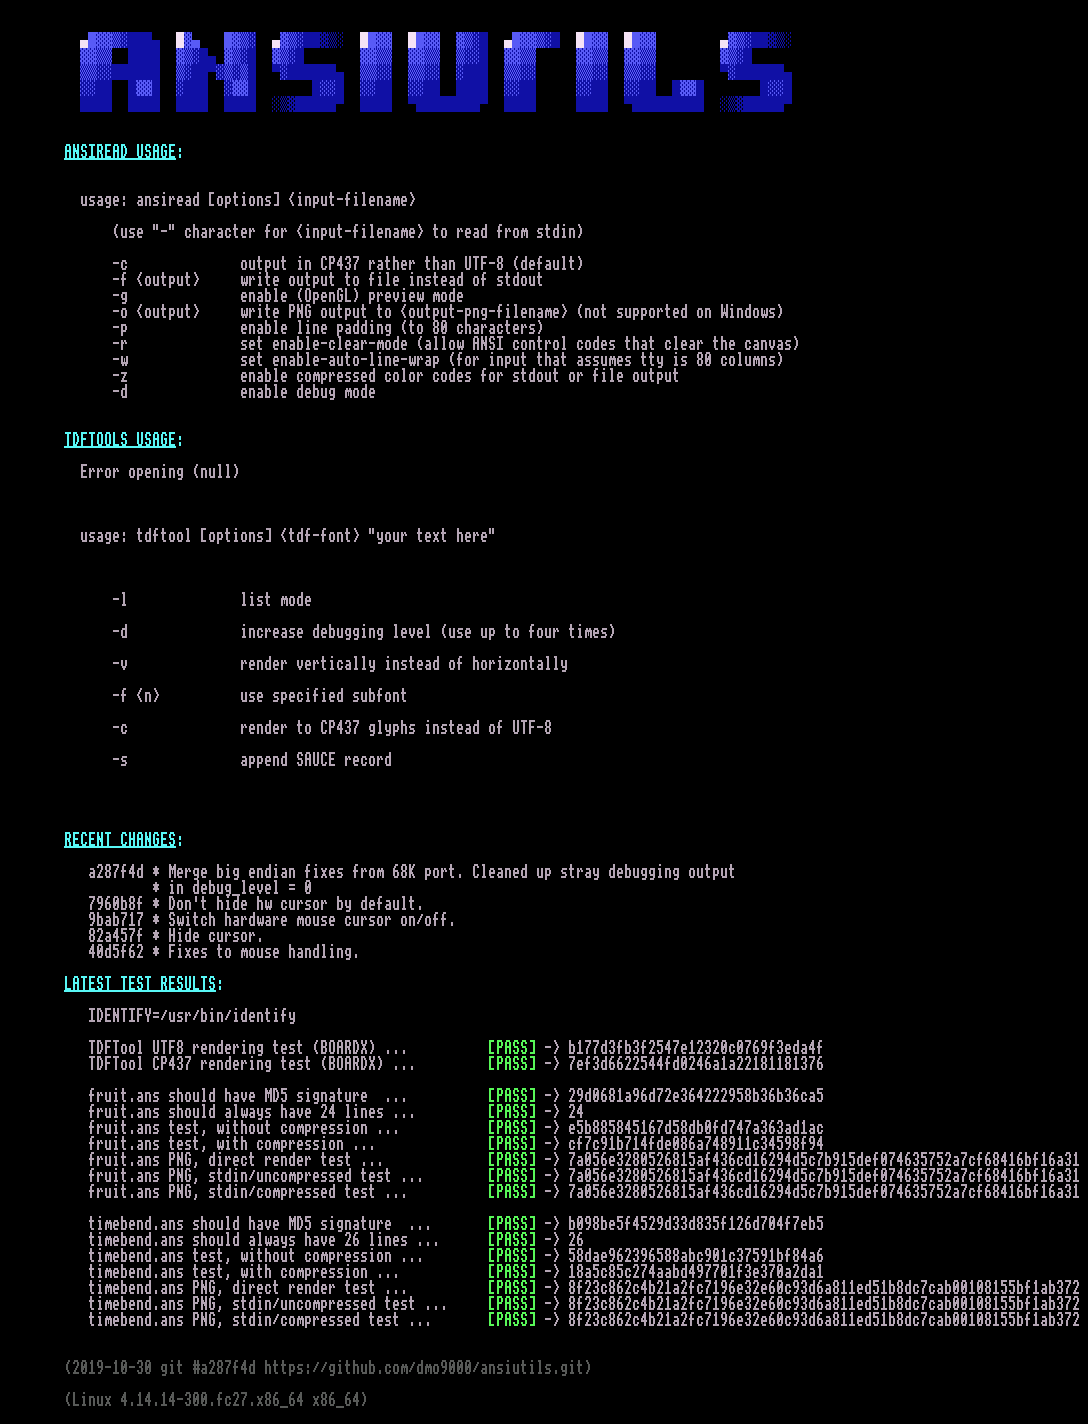
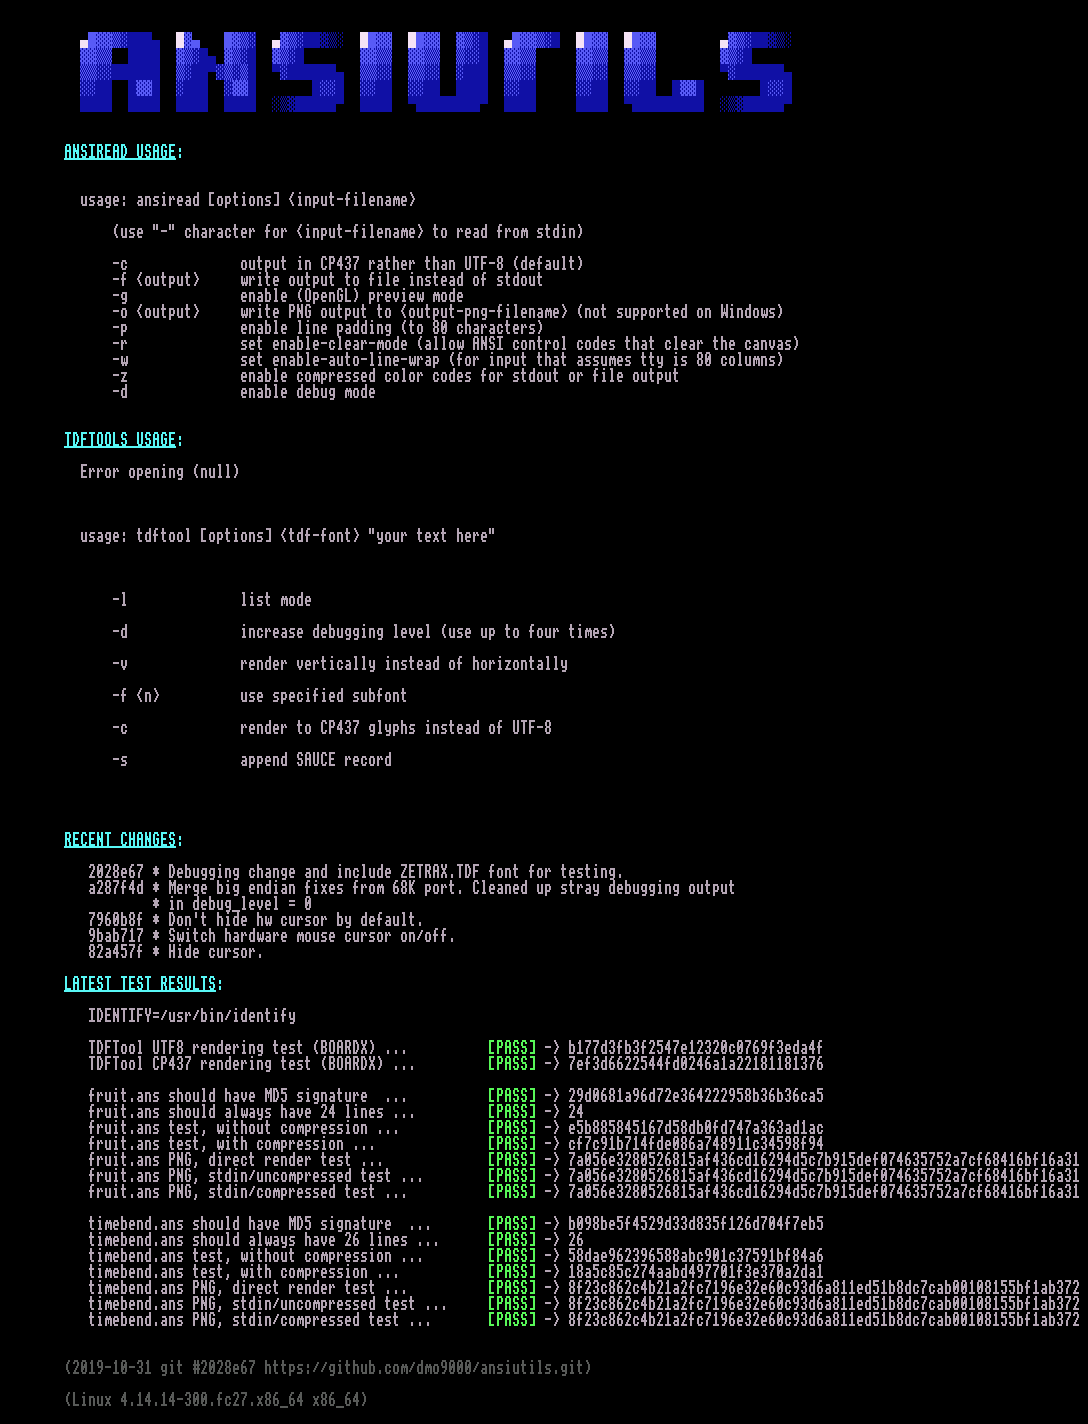
Loads of fixes/changes from 68K BDOS port. fprintf() switched out for printf() for now, since it is broken there, but now colour finally works. Other minor fixes to debugging.

Changed region(s): [[0.0625, 0.5871, 0.4375, 0.6798], [0.5312, 0.5871, 0.625, 0.6489], [0.4375, 0.618, 0.4688, 0.6489]]

diff --git a/tdftool.c b/tdftool.c
@@ -235,6 +235,8 @@ int main(int argc, char *argv[])
             new_font->name = malloc(namelen+1);
             memset(new_font->name, 0, namelen+1);
 
+            assert(new_font->name);
+
             if (fread(new_font->name, MAX_NAMELEN, 1, my_tdf.fh) != 1) {
                 printf("Error reading font name (%u bytes)\r\n\r\n", namelen);
                 exit(1);
@@ -328,7 +330,11 @@ int main(int argc, char *argv[])
                 new_font->characters[ii].parent_font = new_font;
                 new_font->characters[ii].prerendered = false;
             }
-            //printf("+ Loaded %u character references\r\n\r\n", new_font->references);
+            if (debug_level) {
+                printf("  + %-12s: %u character references\r\n",
+                       new_font->name,
+                       new_font->references);
+            }
             /* store the location of the data segment */
             new_font->offset = ftell(my_tdf.fh);
             if (!push_font(&my_tdf, new_font)) {
@@ -352,7 +358,7 @@ int main(int argc, char *argv[])
         printf("Font list:\r\n\r\n");
         for (ii = 1; ii <= my_tdf.fontcount; ii++) {
             render_font = getfont_by_id(&my_tdf, ii);
-            printf("%d) %s\r\n\r\n", ii, render_font->name);
+            printf("%d) %s\r\n", ii, render_font->name);
         }
         exit(0);
     }
@@ -376,7 +382,16 @@ int main(int argc, char *argv[])
         /* prerender all glyphs */
 
         for (ii = 33; ii <= 126; ii++) {
-            if (render_glyph(render_font, ii)) {
+            bool load_flag = false;
+            if (strchr(message, ii)) {
+                load_flag = true;
+                if (debug_level) {
+                    printf("\r\n - character [%c] is in message [%s], loading ...\r\n", ii, message);
+                }
+            } else {
+//								printf("\r\n Character [%c] is NOT in message [%s], loading ...\r\n", ii, message);
+            }
+            if (render_glyph(render_font, ii) && load_flag) {
                 /* if it was a valid glyph, add it's width to the running average */
                 running_average_width += render_font->characters[ii-33].width;
                 running_average_height += render_font->characters[ii-33].discovered_height;
@@ -385,7 +400,28 @@ int main(int argc, char *argv[])
                 }
                 /* don't trust the height value provided in the TDF file, use what we counted while pre-rendering */
                 render_font->defined_characters++;
+
+                if (debug_level) {
+                    printf("[%-12s: prerender glyph %03u:%03u '%c']\r",
+                           render_font->name,
+                           render_font->defined_characters,
+                           render_font->references,
+                           ii);
+
+                }
             }
+        }
+
+        if (debug_level) {
+            printf("[LOADED %-12s: prerender glyphs completed %03u:%03u '%c']\r\n",
+                   render_font->name,
+                   render_font->defined_characters,
+                   render_font->references,
+                   ii);
+        }
+
+        if (debug_level) {
+            printf("\r\n\r\n");
         }
 
         render_font->average_width = (uint8_t) ((uint16_t) running_average_width / render_font->defined_characters);
@@ -413,6 +449,8 @@ int main(int argc, char *argv[])
 
         my_canvas = new_canvas();
         my_canvas->debug_level = debug_level;
+        /* be explicit about this */
+        my_canvas->compress_output = false;
 
 
         for (ii = 0; ii < (int) strlen(message); ii++) {

diff --git a/ansiraster.c b/ansiraster.c
@@ -188,10 +188,13 @@ bool raster_output(ANSIRaster *r, bool debug_mode, bool use_unicode, bool compre
             printf("[%u/%03u:%c:%X/%X:%s]\n", jj, r->chardata[jj],
                    r->chardata[jj], r->bgcolors[jj], r->fgcolors[jj], ((bold) ? "BOLD" : "NOBOLD"));
         } else {
-            if (compress && last_fg == fg && last_bg == bg) {
+            if (compress && ((last_fg == fg) && (last_bg == bg))) {
                 /* no color output if compression is enabled and fg/bg haven't changed */
+                //	printf("<compress>\r\n");
             } else {
-                fprintf(fh, (char *) "\x1b\x5b""%u;%um", 40 + bg, 30 + fg);
+                //		printf("<1B 5B %u ; %um>\r\n", 40+bg, 30+fg);
+                //fprintf(fh, (char *) "\x1B""\x5B""%u;%um", 40 + bg, 30 + fg);
+                printf((char *) "\x1B""\x5B""%u;%um", 40 + bg, 30 + fg);
             }
 
             if (compress) {
@@ -199,17 +202,22 @@ bool raster_output(ANSIRaster *r, bool debug_mode, bool use_unicode, bool compre
 
                 } else {
                     if (bold) {
-                        fprintf(fh, "\x1b\x5b""1m");
+                        //fprintf(fh, "\x1B""\x5B""1m");
+                        printf("\x1B""\x5B""1m");
+
                     } else {
-                        fprintf(fh, "\x1b\x5b""21m");
+                        //fprintf(fh, "\x1B""\x5B""21m");
+                        printf("\x1B""\x5B""21m");
                     }
                 }
             } else {
                 /* no compression */
                 if (bold) {
-                    fprintf(fh, "\x1b\x5b""1m");
+                    //fprintf(fh, "\x1B""\x5B""1m");
+                    printf("\x1B""\x5B""1m");
                 } else {
-                    fprintf(fh, "\x1b\x5b""21m");
+                    //fprintf(fh, "\x1B""\x5B""21m");
+                    printf("\x1B""\x5B""21m");
                 }
             }
 
@@ -217,7 +225,9 @@ bool raster_output(ANSIRaster *r, bool debug_mode, bool use_unicode, bool compre
                 if (r->chardata[jj] < 128) {
                     fputc(r->chardata[jj], fh);
                 } else {
-                    fprintf(fh, "%s", utf8_string(r->chardata[jj]));
+                    //fprintf(fh, "%s", utf8_string(r->chardata[jj]));
+                    printf("%s", utf8_string(r->chardata[jj]));
+
                 }
             } else {
                 fputc(r->chardata[jj], fh);
@@ -225,7 +235,9 @@ bool raster_output(ANSIRaster *r, bool debug_mode, bool use_unicode, bool compre
         }
     }
 
-    fprintf(fh, "\x1b\x5b""0m");
+//    fprintf(fh, "\x1b\x5b""0m");
+    printf("\x1b\x5b""0m");
+
     return true;
 
 }
@@ -235,7 +247,7 @@ void raster_extend_length_to(ANSIRaster *r, uint16_t extrabytes)
 
     assert(r);
     while (r-> bytes < extrabytes) {
-        raster_append_byte(r, ' ', 7, 0, ATTRIB_NONE, "true");
+        raster_append_byte(r, ' ', 7, 0, ATTRIB_NONE, true);
     }
 
     return;

diff --git a/tdffont.c b/tdffont.c
@@ -161,7 +161,7 @@ bool render_glyph(TDFFont *render_font, unsigned c)
 
 
     if (render_font->parent_tdf->debug_level > 2) {
-        printf("      data offset: %u + %u = %u\n",
+        printf("      data offset: %u + %lu = %lu\n",
                render_font->offset, (uint32_t) render_font->characters[c].offset, glyph_offset);
     }
 
@@ -178,7 +178,7 @@ bool render_glyph(TDFFont *render_font, unsigned c)
         if (render_font->parent_tdf->debug_level > 2) {
             printf("render_font->blocksize=%u\n", render_font->blocksize);
             printf("render_font->data = %s\n", (render_font->blocksize ? "GOOD" : "BAD"));
-            printf("rc = fread(0x%08x, %u, 1, FH=0x%08x\n", render_font->parent_tdf->fh);
+            printf("rc = fread(0x%08x, %u, 1, FH=0x%08lx\n", (unsigned int) render_font->data, (unsigned int) render_font->parent_tdf->fh);
         }
         rc = fread(render_font->data, render_font->blocksize, 1, render_font->parent_tdf->fh);
         if (rc != 1) {
@@ -452,8 +452,8 @@ bool display_glyph(TDFFont *tdf, uint8_t c, bool use_unicode)
             if (tdf->parent_tdf->debug_level > 2) {
                 printf(" (%u,%u/%u)\n", tdr->bytes, ii+1, tdc->discovered_height);
             } else {
-								printf("\r\n");
-						}
+                printf("\r\n\r\n");
+            }
         } else {
             /* blank raster */
             for (jj = 0; jj < tdc->width; jj++) {
@@ -462,8 +462,8 @@ bool display_glyph(TDFFont *tdf, uint8_t c, bool use_unicode)
             if (tdf->parent_tdf->debug_level > 2) {
                 printf(" (%u,%u/%u)\n", tdr->bytes, ii+1, tdc->discovered_height);
             } else {
-								printf("\r\n");
-						}
+                printf("\r\n\r\n");
+            }
         }
     }
 

diff --git a/ansistate.c b/ansistate.c
@@ -571,25 +571,25 @@ bool ansi_to_canvas(ANSICanvas *canvas, unsigned char *buf, size_t nbytes, size_
                     xterm_title_string_length = 0;
                 }
                 break;
-						case 0x0A:
-							fprintf(stderr, " 0x0A");
-							break;
-						case 0x0D:
-							fprintf(stderr, " 0x0D");
-							break;
-						case 0x1B:
-							fprintf(stderr, " 0x1B");
-               clear_ansi_flags(FLAG_ALL);
-							set_ansi_flags(FLAG_1B);
-							break;
-						case 0x5B:
-							fprintf(stderr, " 0x5B");
-               clear_ansi_flags(FLAG_ALL);
-							break;
-						case 0x32:
-							fprintf(stderr, " 0x32???");
-							break;
-							/* humor me */
+            case 0x0A:
+                fprintf(stderr, " 0x0A");
+                break;
+            case 0x0D:
+                fprintf(stderr, " 0x0D");
+                break;
+            case 0x1B:
+                fprintf(stderr, " 0x1B");
+                clear_ansi_flags(FLAG_ALL);
+                set_ansi_flags(FLAG_1B);
+                break;
+            case 0x5B:
+                fprintf(stderr, " 0x5B");
+                clear_ansi_flags(FLAG_ALL);
+                break;
+            case 0x32:
+                fprintf(stderr, " 0x32???");
+                break;
+            /* humor me */
             default:
                 fprintf(stderr, "+++ Unrecognized Operating System Command Sequence ('%02x'). Aborting.\r\n", c);
                 clear_ansi_flags(FLAG_ALL);
